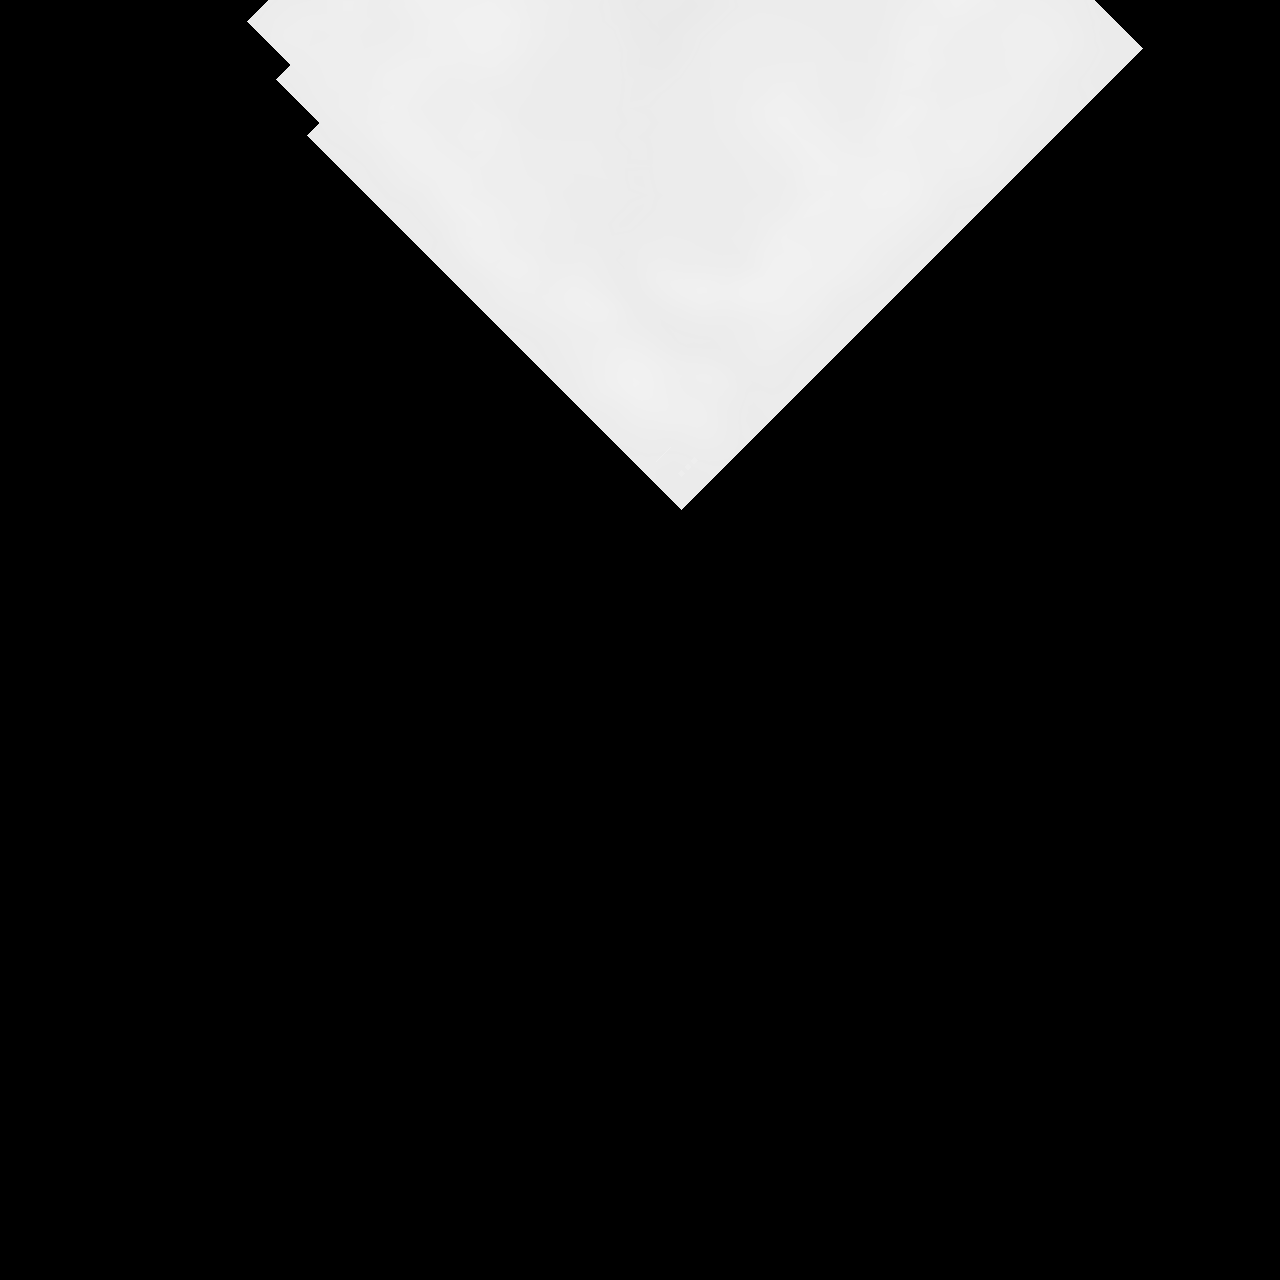
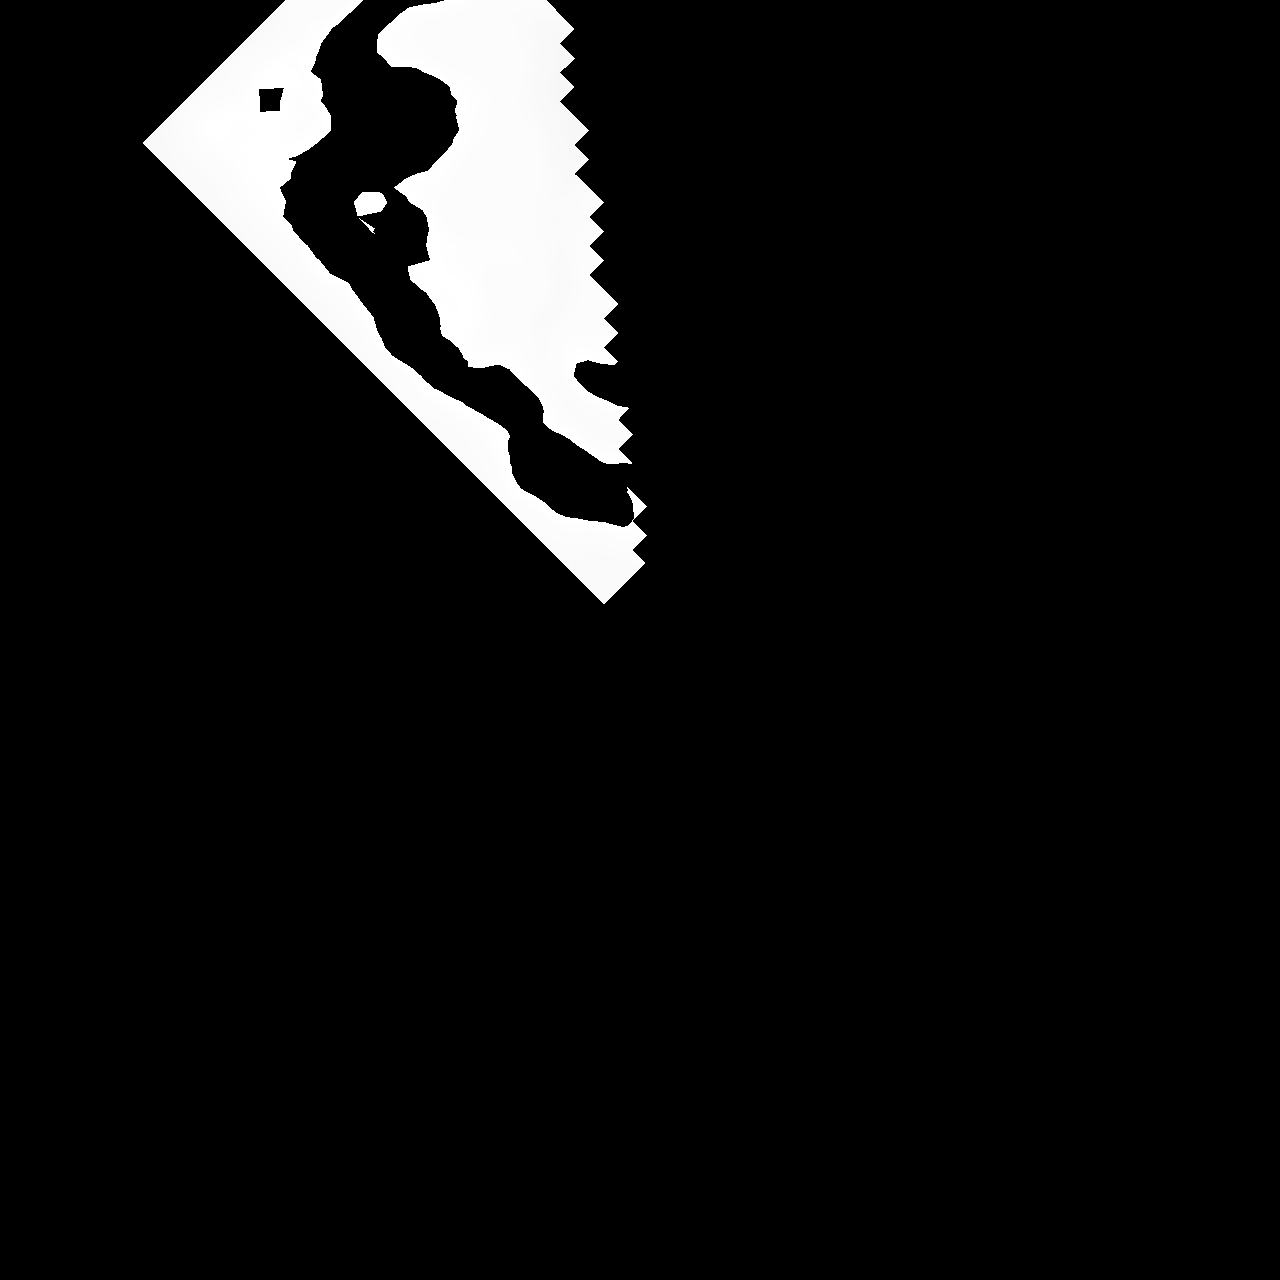
뎁스 스텐실 시스템 재정비

Changed region(s): [[0.0938, 0.0, 0.9062, 0.4688]]

diff --git a/Shader/NormalMapShader.cpp b/Shader/NormalMapShader.cpp
@@ -20,7 +20,6 @@ NormalMapShader::NormalMapShader()
 NormalMapShader::~NormalMapShader()
 {
 	SAFE_RELEASE(LightBuffer);
-	SAFE_RELEASE(mirrorViewBuffer);
 	SAFE_RELEASE(ExtraBuffer);
 	SAFE_RELEASE(MaterialBuffer);
 	SAFE_RELEASE(parallaxBuffer);
@@ -58,6 +57,20 @@ void NormalMapShader::Render(UINT indexCount, D3DXMATRIX world, D3DXMATRIX view,
 	D3D::GetDeviceContext()->Unmap(ExtraBuffer, 0);
 
 	
+	D3DXVECTOR3 cameraPos;
+	Camera::Get()->GetPosition(&cameraPos);
+
+	ZeroMemory(&subResource, sizeof(D3D11_MAPPED_SUBRESOURCE));
+	D3D::GetDeviceContext()->Map
+	(
+		cameraPosBuffer, 0, D3D11_MAP_WRITE_DISCARD, 0, &subResource
+	);
+
+	memcpy(subResource.pData, &cameraPos, sizeof(D3DXVECTOR4));
+
+	D3D::GetDeviceContext()->Unmap(cameraPosBuffer, 0);
+
+
 
 	ZeroMemory(&subResource, sizeof(D3D11_MAPPED_SUBRESOURCE));
 	D3D::GetDeviceContext()->Map
@@ -103,8 +116,10 @@ void NormalMapShader::Render(UINT indexCount, D3DXMATRIX world, D3DXMATRIX view,
 	D3D::GetDeviceContext()->PSSetShaderResources(3, 1, &lightMap);
 
 
+	D3D::GetDeviceContext()->VSSetConstantBuffers(1, 1, &cameraPosBuffer);
 	D3D::GetDeviceContext()->VSSetConstantBuffers(2, 1, &LightBuffer);
 	D3D::GetDeviceContext()->VSSetConstantBuffers(3, 1, &ExtraBuffer);
+
 	D3D::GetDeviceContext()->PSSetConstantBuffers(0, 1, &MaterialBuffer);
 	D3D::GetDeviceContext()->PSSetConstantBuffers(1, 1, &parallaxBuffer);
 	
@@ -175,13 +190,13 @@ void NormalMapShader::CreateBuffers()
 
 	ZeroMemory(&desc, sizeof(D3D11_BUFFER_DESC));
 	desc.Usage = D3D11_USAGE_DYNAMIC;
-	desc.ByteWidth = sizeof(D3DXMATRIX);
+	desc.ByteWidth = sizeof(D3DXVECTOR4);
 	desc.BindFlags = D3D11_BIND_CONSTANT_BUFFER;
 	desc.CPUAccessFlags = D3D11_CPU_ACCESS_WRITE;
 	desc.MiscFlags = 0;
 	desc.StructureByteStride = 0;
 
-	hr = D3D::GetDevice()->CreateBuffer(&desc, NULL, &mirrorViewBuffer);
+	hr = D3D::GetDevice()->CreateBuffer(&desc, NULL, &cameraPosBuffer);
 	assert(SUCCEEDED(hr));
 
 }

diff --git a/System/D3D.h b/System/D3D.h
@@ -14,9 +14,6 @@ struct D3DInfo
 	D3DXCOLOR clearColor;
 };
 
-
-class Blender;
-class DepthStencil;
 class D3D
 {
 public:
@@ -72,10 +69,19 @@ public:
 
 
 
-	void SetDepthStencilOnState();
-	void SetDepthStencilOffState();
-	void SetDepthStencilMirrorPreState();
-	void SetDepthStencilMirrorState();
+
+	//DepthStencil State
+
+	enum DS_state {
+		onState=0,
+		offState,
+		mirrorPlaneRenderState,
+		mirrorObjectRenderState,
+		mirrorSkyplaneState,
+	};
+
+	void SetDepthStencilState(DS_state);
+
 
 
 
@@ -137,8 +143,7 @@ private:
 	
 
 	void CreateDepthStencil();
-//	void CreateOffState();
-//	void CreateMirrorStencilTest();
+
 
 
 
@@ -155,8 +160,7 @@ private:
 	ID3D11DepthStencilView* defaultDepthView;
 	ID3D11RenderTargetView* defaultRenderView;
 
-	ID3D11DepthStencilState* onState;
-	ID3D11DepthStencilState* offState;
-	ID3D11DepthStencilState* mirrorState;
-	ID3D11DepthStencilState* mirrorState2;
+
+	ID3D11DepthStencilState** depthstencilstate;
+
 };

diff --git a/Camera/Camera.cpp b/Camera/Camera.cpp
@@ -83,10 +83,12 @@ void Camera::UpdateRotationMatrix()
 void Camera::UpdateViewMatrix()
 {                                                               
 	D3DXMatrixLookAtLH(&view, &position, &(position + forward), &up);
-}
 
-void Camera::Update()
-{
+	D3DXMATRIX R;
+	D3DXPLANE plane(0.0f, 1.0f, 0.0f, 7.7f); // xy plane}
+	D3DXMatrixReflect(&R, &plane);
+	mirrorView = R * view;
+
 }
 
 void Camera::Move(D3DXVECTOR3 translation)

diff --git a/Render/LightManager.cpp b/Render/LightManager.cpp
@@ -19,11 +19,8 @@ void LightManager::Update()
 	D3DXVec3Normalize(&forward, &forward);
 	D3DXVec3Normalize(&lightData.lightDirection, &lightData.lightDirection);
 
-	//position += forward * 250 - lightData.lightDirection * 250;
-
 
 	D3DXMatrixLookAtLH(&lightData.lightView, &position, &(lightData.lightDirection + position), &up);
-
 	D3DXMatrixOrthoLH(&lightData.lightProjection,500, 500, 0.1f, 500);
 	
 

diff --git a/Render/LightManager.h b/Render/LightManager.h
@@ -14,6 +14,13 @@ public:
 	static LightManager* Get();
 
 
+	void GetView(D3DXMATRIX* view) {
+		memcpy(view, this->lightData.lightView, sizeof(D3DXMATRIX));
+	}
+	void GetProjection(D3DXMATRIX* view) {
+		memcpy(view, this->lightData.lightProjection, sizeof(D3DXMATRIX));
+	}
+
 	LightData* GetLightData() {
 		return &lightData;
 	}

diff --git a/Shader/NormalMapShader.h b/Shader/NormalMapShader.h
@@ -23,7 +23,7 @@ public:
 	void CreateBuffers();
 	
 	ID3D11Buffer* LightBuffer;
-	ID3D11Buffer* mirrorViewBuffer;
+	ID3D11Buffer* cameraPosBuffer;
 	ID3D11Buffer* ExtraBuffer;
 	ID3D11Buffer* MaterialBuffer;
 	ID3D11Buffer* parallaxBuffer;
